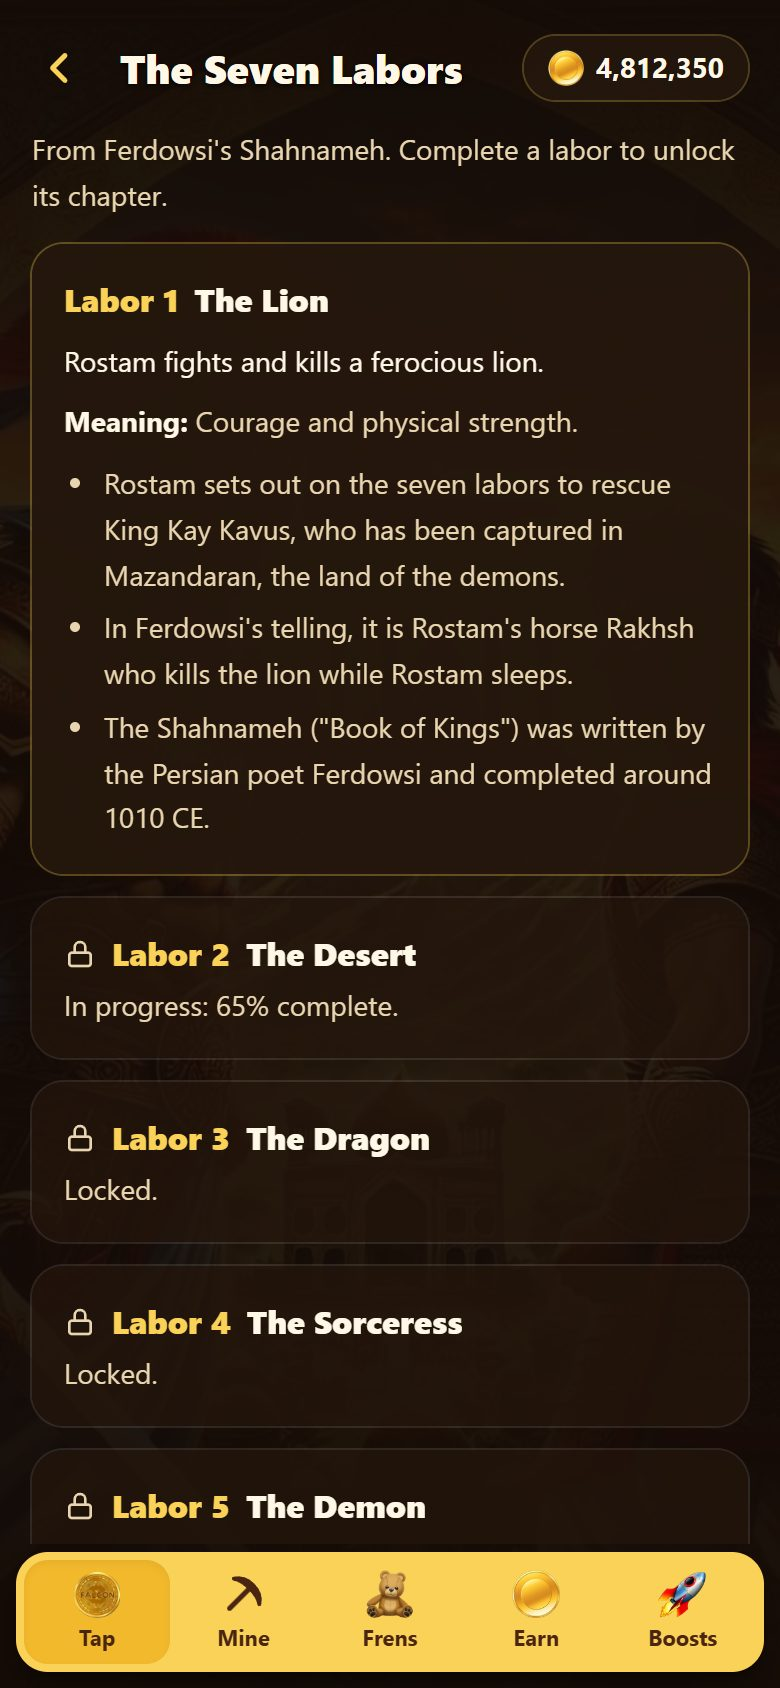
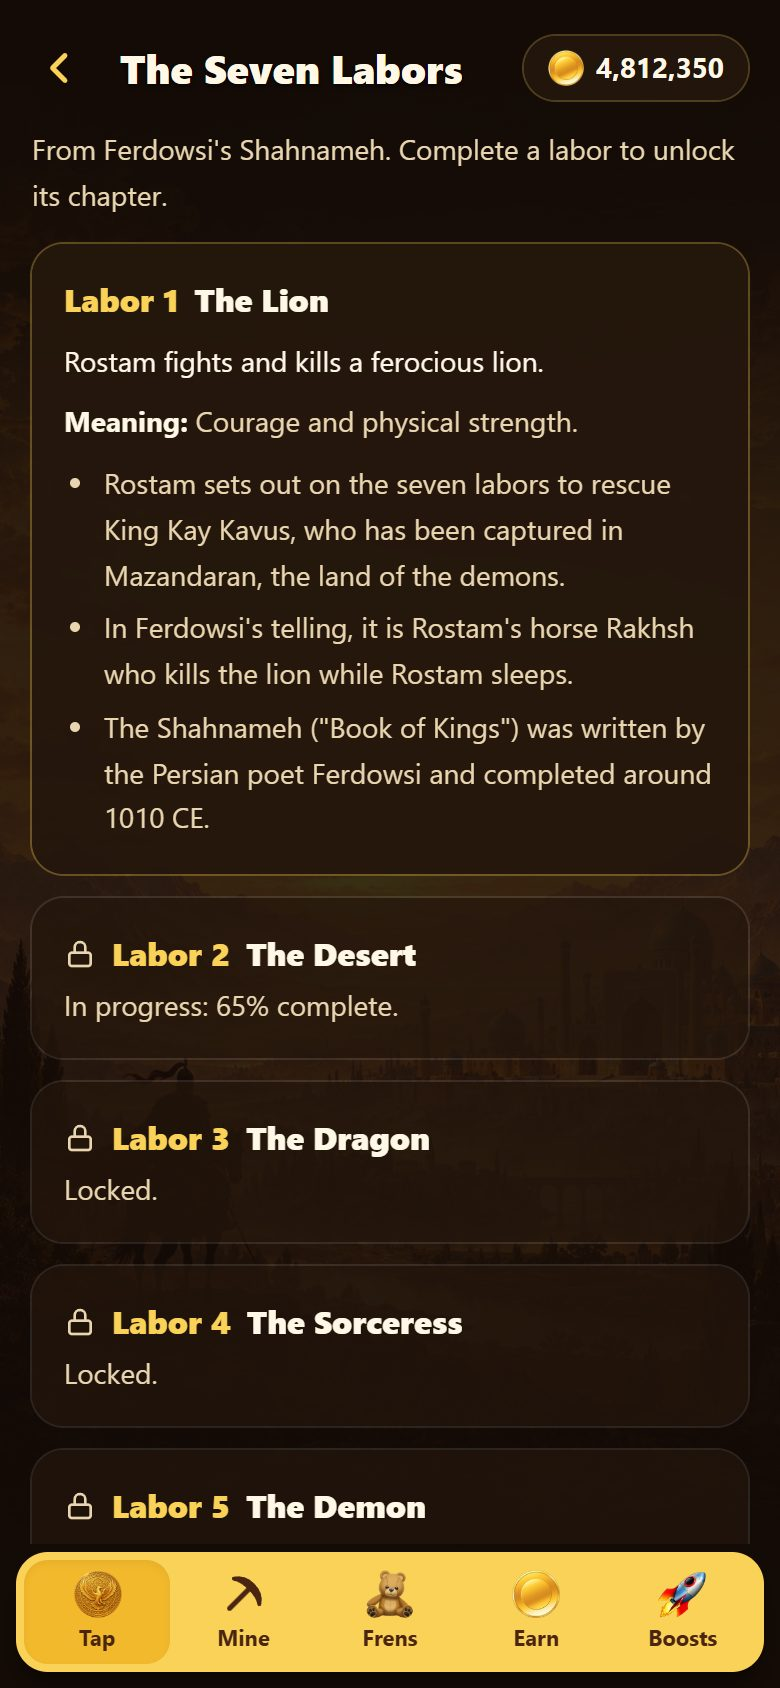
Refactor code structure for improved readability and maintainability

diff --git a/src/index.css b/src/index.css
@@ -51,7 +51,7 @@ body {
   display: none;
   position: absolute;
   inset: -48px;
-  background: #140b06 url('./images/shahnameh-wide.jpg') center / cover no-repeat;
+  background: #140b06 url('./images/golden-city.jpg') center / cover no-repeat;
   filter: blur(28px) brightness(0.35) saturate(1.1);
   pointer-events: none;
 }
@@ -90,6 +90,11 @@ body {
     width: clamp(360px, calc(var(--frame-h) * 0.5), 430px);
     border-radius: 32px;
     box-shadow: 0 30px 90px rgb(0 0 0 / 0.65), 0 0 0 1px rgb(250 210 88 / 0.22);
+    /* Keep content clear of the rounded corners (there are no device insets here). */
+    --safe-top: 14px;
+    --safe-bottom: 6px;
+    --safe-left: 6px;
+    --safe-right: 6px;
   }
 }
 
@@ -99,8 +104,8 @@ body {
   inset: 0;
   z-index: -1;
   background:
-    linear-gradient(180deg, rgb(20 11 6 / 0.9) 0%, rgb(20 11 6 / 0.45) 30%, rgb(20 11 6 / 0.5) 62%, rgb(20 11 6 / 0.94) 100%),
-    #140b06 url('./images/shahnameh-portrait.jpg') center / cover no-repeat;
+    linear-gradient(180deg, rgb(20 11 6 / 0.8) 0%, rgb(20 11 6 / 0.4) 28%, rgb(20 11 6 / 0.15) 55%, rgb(20 11 6 / 0.55) 82%, rgb(20 11 6 / 0.92) 100%),
+    #140b06 url('./images/golden-city.jpg') center / cover no-repeat;
   transition: opacity 0.3s;
 }
 
@@ -136,10 +141,10 @@ body {
 
 .coin {
   position: relative;
-  width: min(68vw, 300px);
-  /* Fits the remaining space at the art's 484:515 ratio, leaving room for floats. */
-  width: min(70cqw, calc(86cqh * 484 / 515));
-  aspect-ratio: 484 / 515;
+  width: min(62vw, 280px);
+  /* Fits the remaining space as a square, with breathing room above and below on short screens. */
+  width: min(66cqw, 74cqh);
+  aspect-ratio: 1;
   border-radius: 50%;
   touch-action: none;
   cursor: pointer;
@@ -150,7 +155,7 @@ body {
   width: 100%;
   height: 100%;
   pointer-events: none;
-  filter: drop-shadow(0 12px 32px rgb(250 210 88 / 0.35));
+  filter: drop-shadow(0 14px 22px rgb(0 0 0 / 0.55)) drop-shadow(0 0 30px rgb(250 210 88 / 0.3));
   transition: filter 0.3s;
 }
 

diff --git a/src/screens/IntroScreen.tsx b/src/screens/IntroScreen.tsx
@@ -1,7 +1,7 @@
 import { shahnamehWide } from '../images';
 
 /** First-run intro, replacing public/persian_theme.html (Plan.md A11, D5). */
-export function IntroScreen({ onStart }: { onStart: () => void }) {
+export function IntroScreen({ onStart }: { onStart: (fromKeyboard: boolean) => void }) {
   return (
     <main className="scroll flex min-h-0 flex-1 flex-col px-6 py-6">
       <div className="m-auto flex w-full max-w-[340px] flex-col items-center gap-6 text-center">
@@ -23,7 +23,7 @@ export function IntroScreen({ onStart }: { onStart: () => void }) {
         <button
           type="button"
           autoFocus
-          onClick={onStart}
+          onClick={(e) => onStart(e.detail === 0)}
           className="min-h-[52px] w-full max-w-[280px] rounded-2xl bg-gold text-lg font-extrabold text-ink shadow-lg shadow-black/40 active:bg-gold-deep"
         >
           Start

diff --git a/src/App.tsx b/src/App.tsx
@@ -141,9 +141,10 @@ const App = () => {
   };
 
   const focusCoin = useRef(false);
-  const start = () => {
+  const start = (fromKeyboard: boolean) => {
     sound.unlock();
-    focusCoin.current = true;
+    // Keyboard users continue on the coin; after a tap or click, a focus ring would just be noise.
+    focusCoin.current = fromKeyboard;
     setSettings((s) => ({ ...s, introSeen: true }));
   };
   // Hand focus from Start to the coin once the intro is gone.

diff --git a/src/images/index.ts b/src/images/index.ts
@@ -3,7 +3,6 @@ import coin from "./coin.png";
 import falconCoin from "./falcon-coin.webp";
 import highVoltage from "./high-voltage.png";
 import rocket from "./rocket.png";
-import shahnamehPortrait from "./shahnameh-portrait.jpg";
 import shahnamehWide from "./shahnameh-wide.jpg";
 import trophy from "./trophy.png";
 
@@ -13,7 +12,6 @@ export {
     falconCoin,
     highVoltage,
     rocket,
-    shahnamehPortrait,
     shahnamehWide,
     trophy,
 }

diff --git a/src/components/TapCoin.tsx b/src/components/TapCoin.tsx
@@ -114,7 +114,7 @@ export const TapCoin = forwardRef<HTMLButtonElement, Props>(function TapCoin({ e
       onClick={onClick}
       onContextMenu={(e) => e.preventDefault()}
     >
-      <img ref={imgRef} src={falconCoin} alt="" width={484} height={515} draggable={false} />
+      <img ref={imgRef} src={falconCoin} alt="" width={600} height={600} draggable={false} />
       {floats.items.map((f) => (
         <span
           key={f.id}
